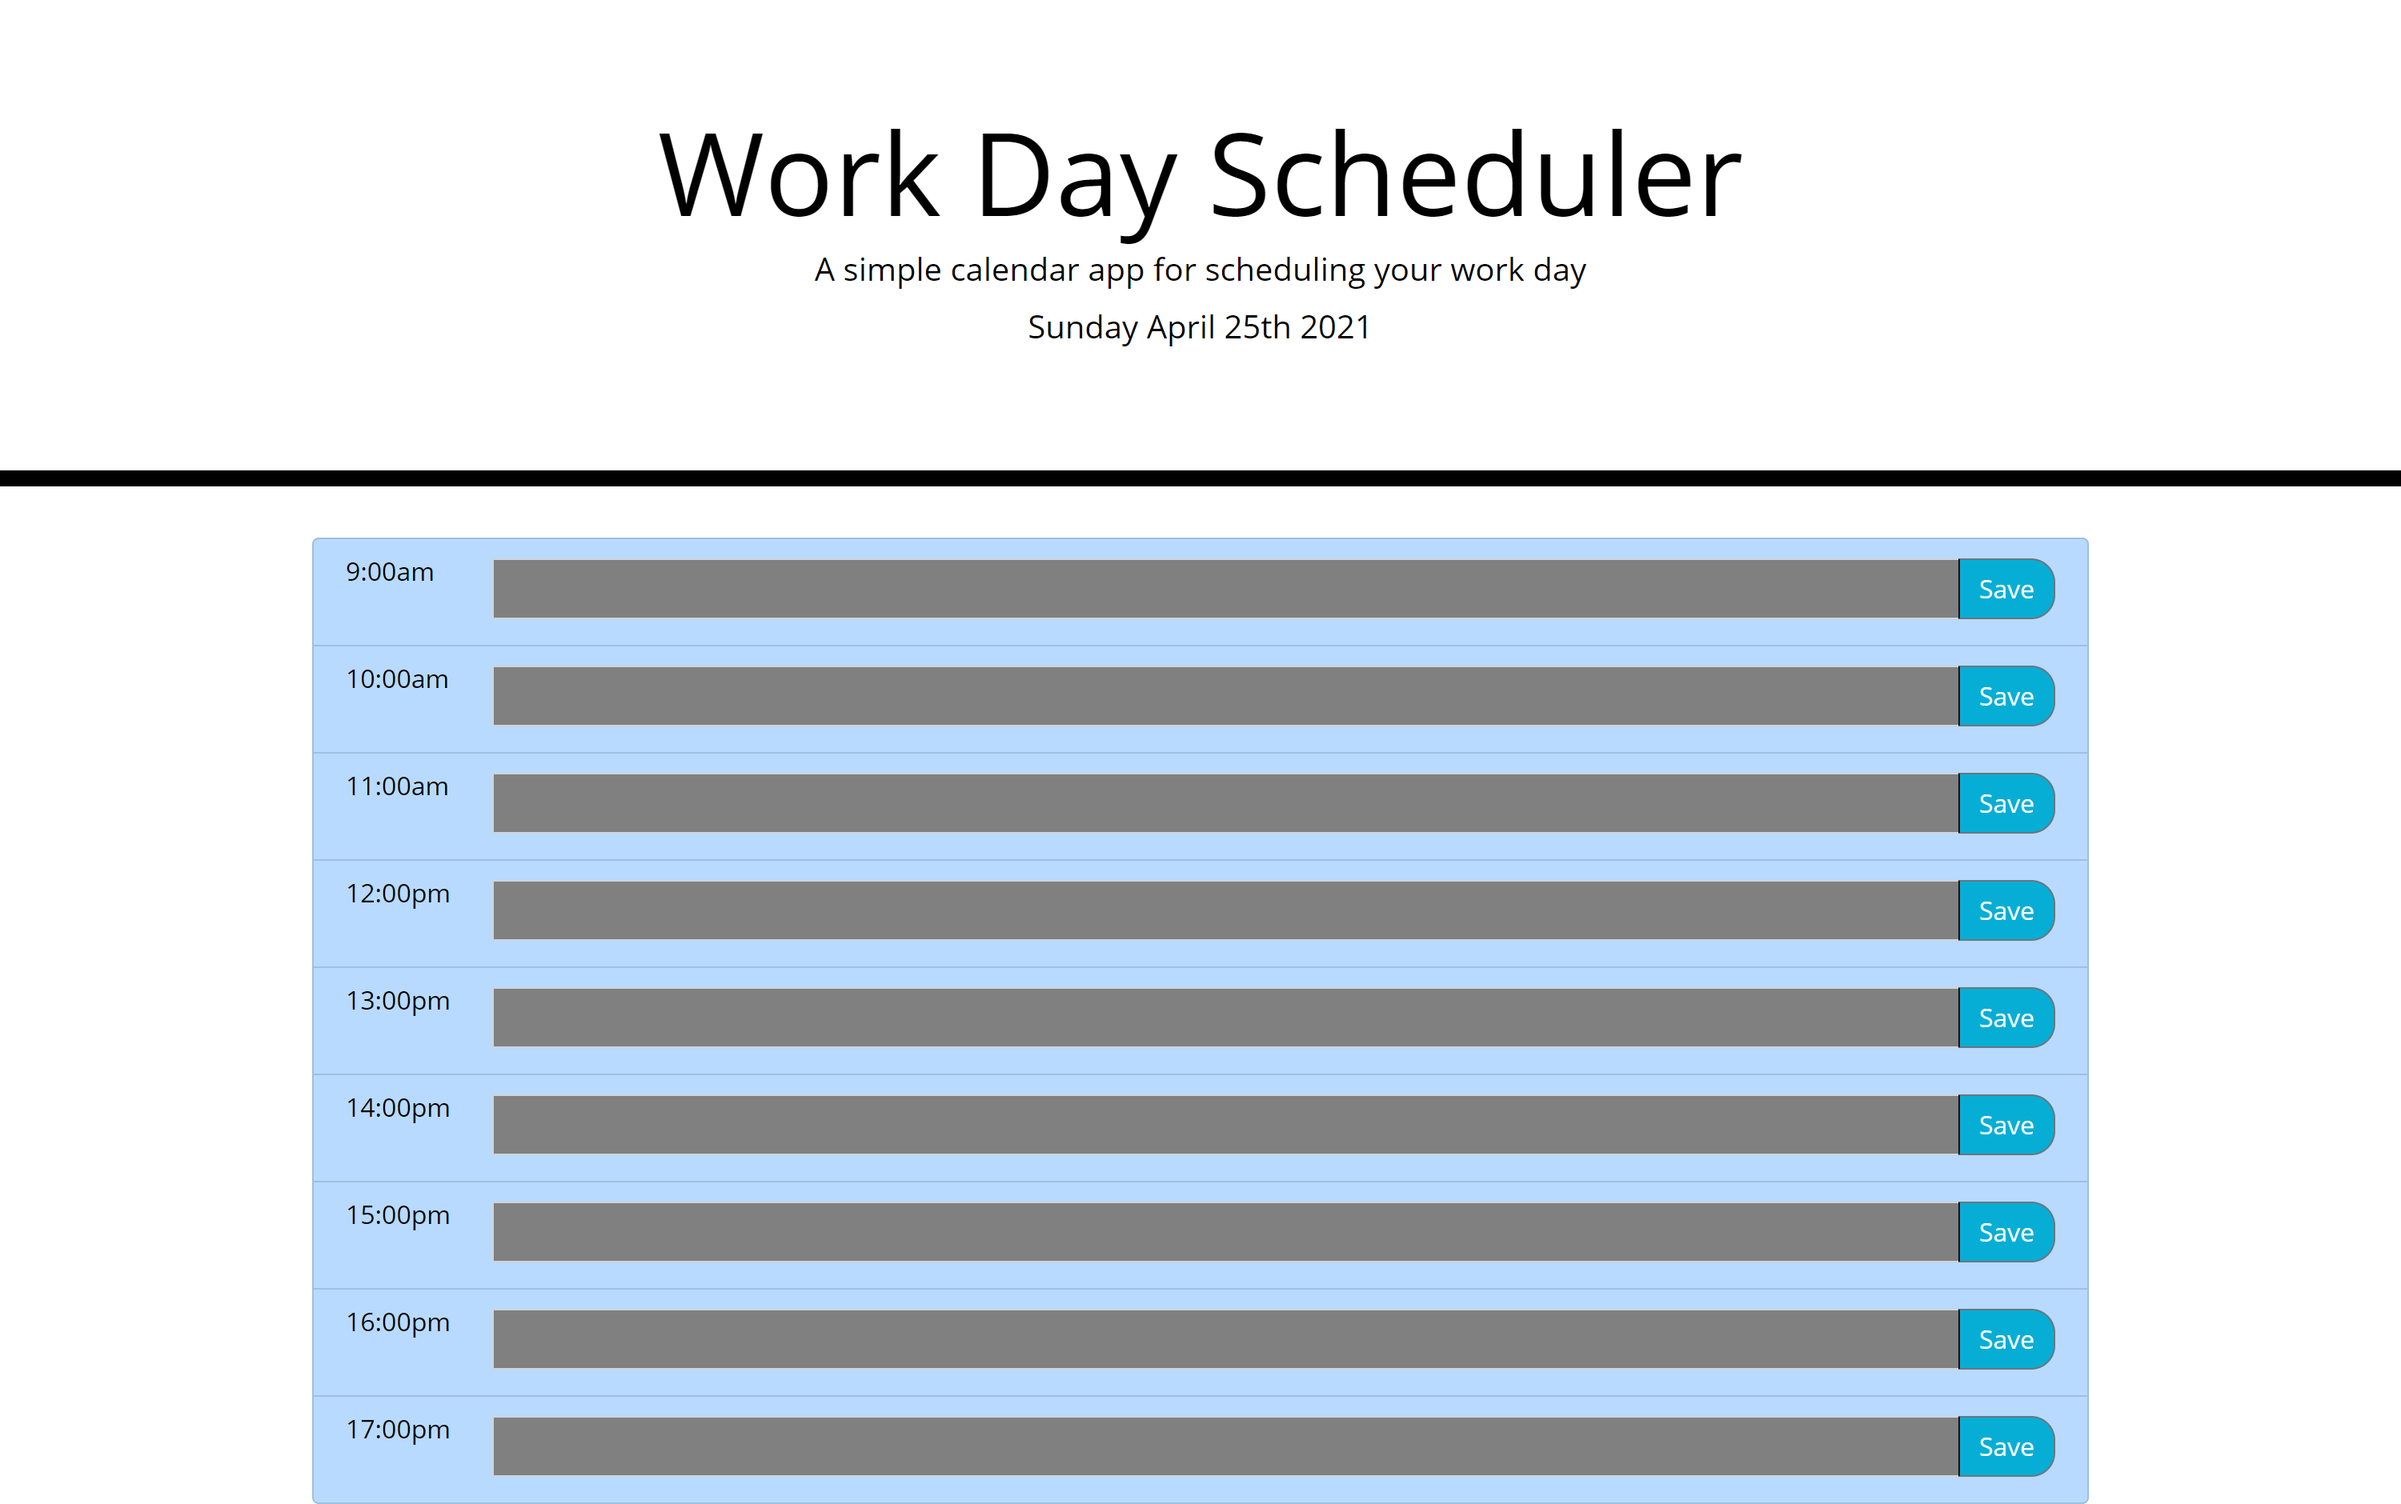
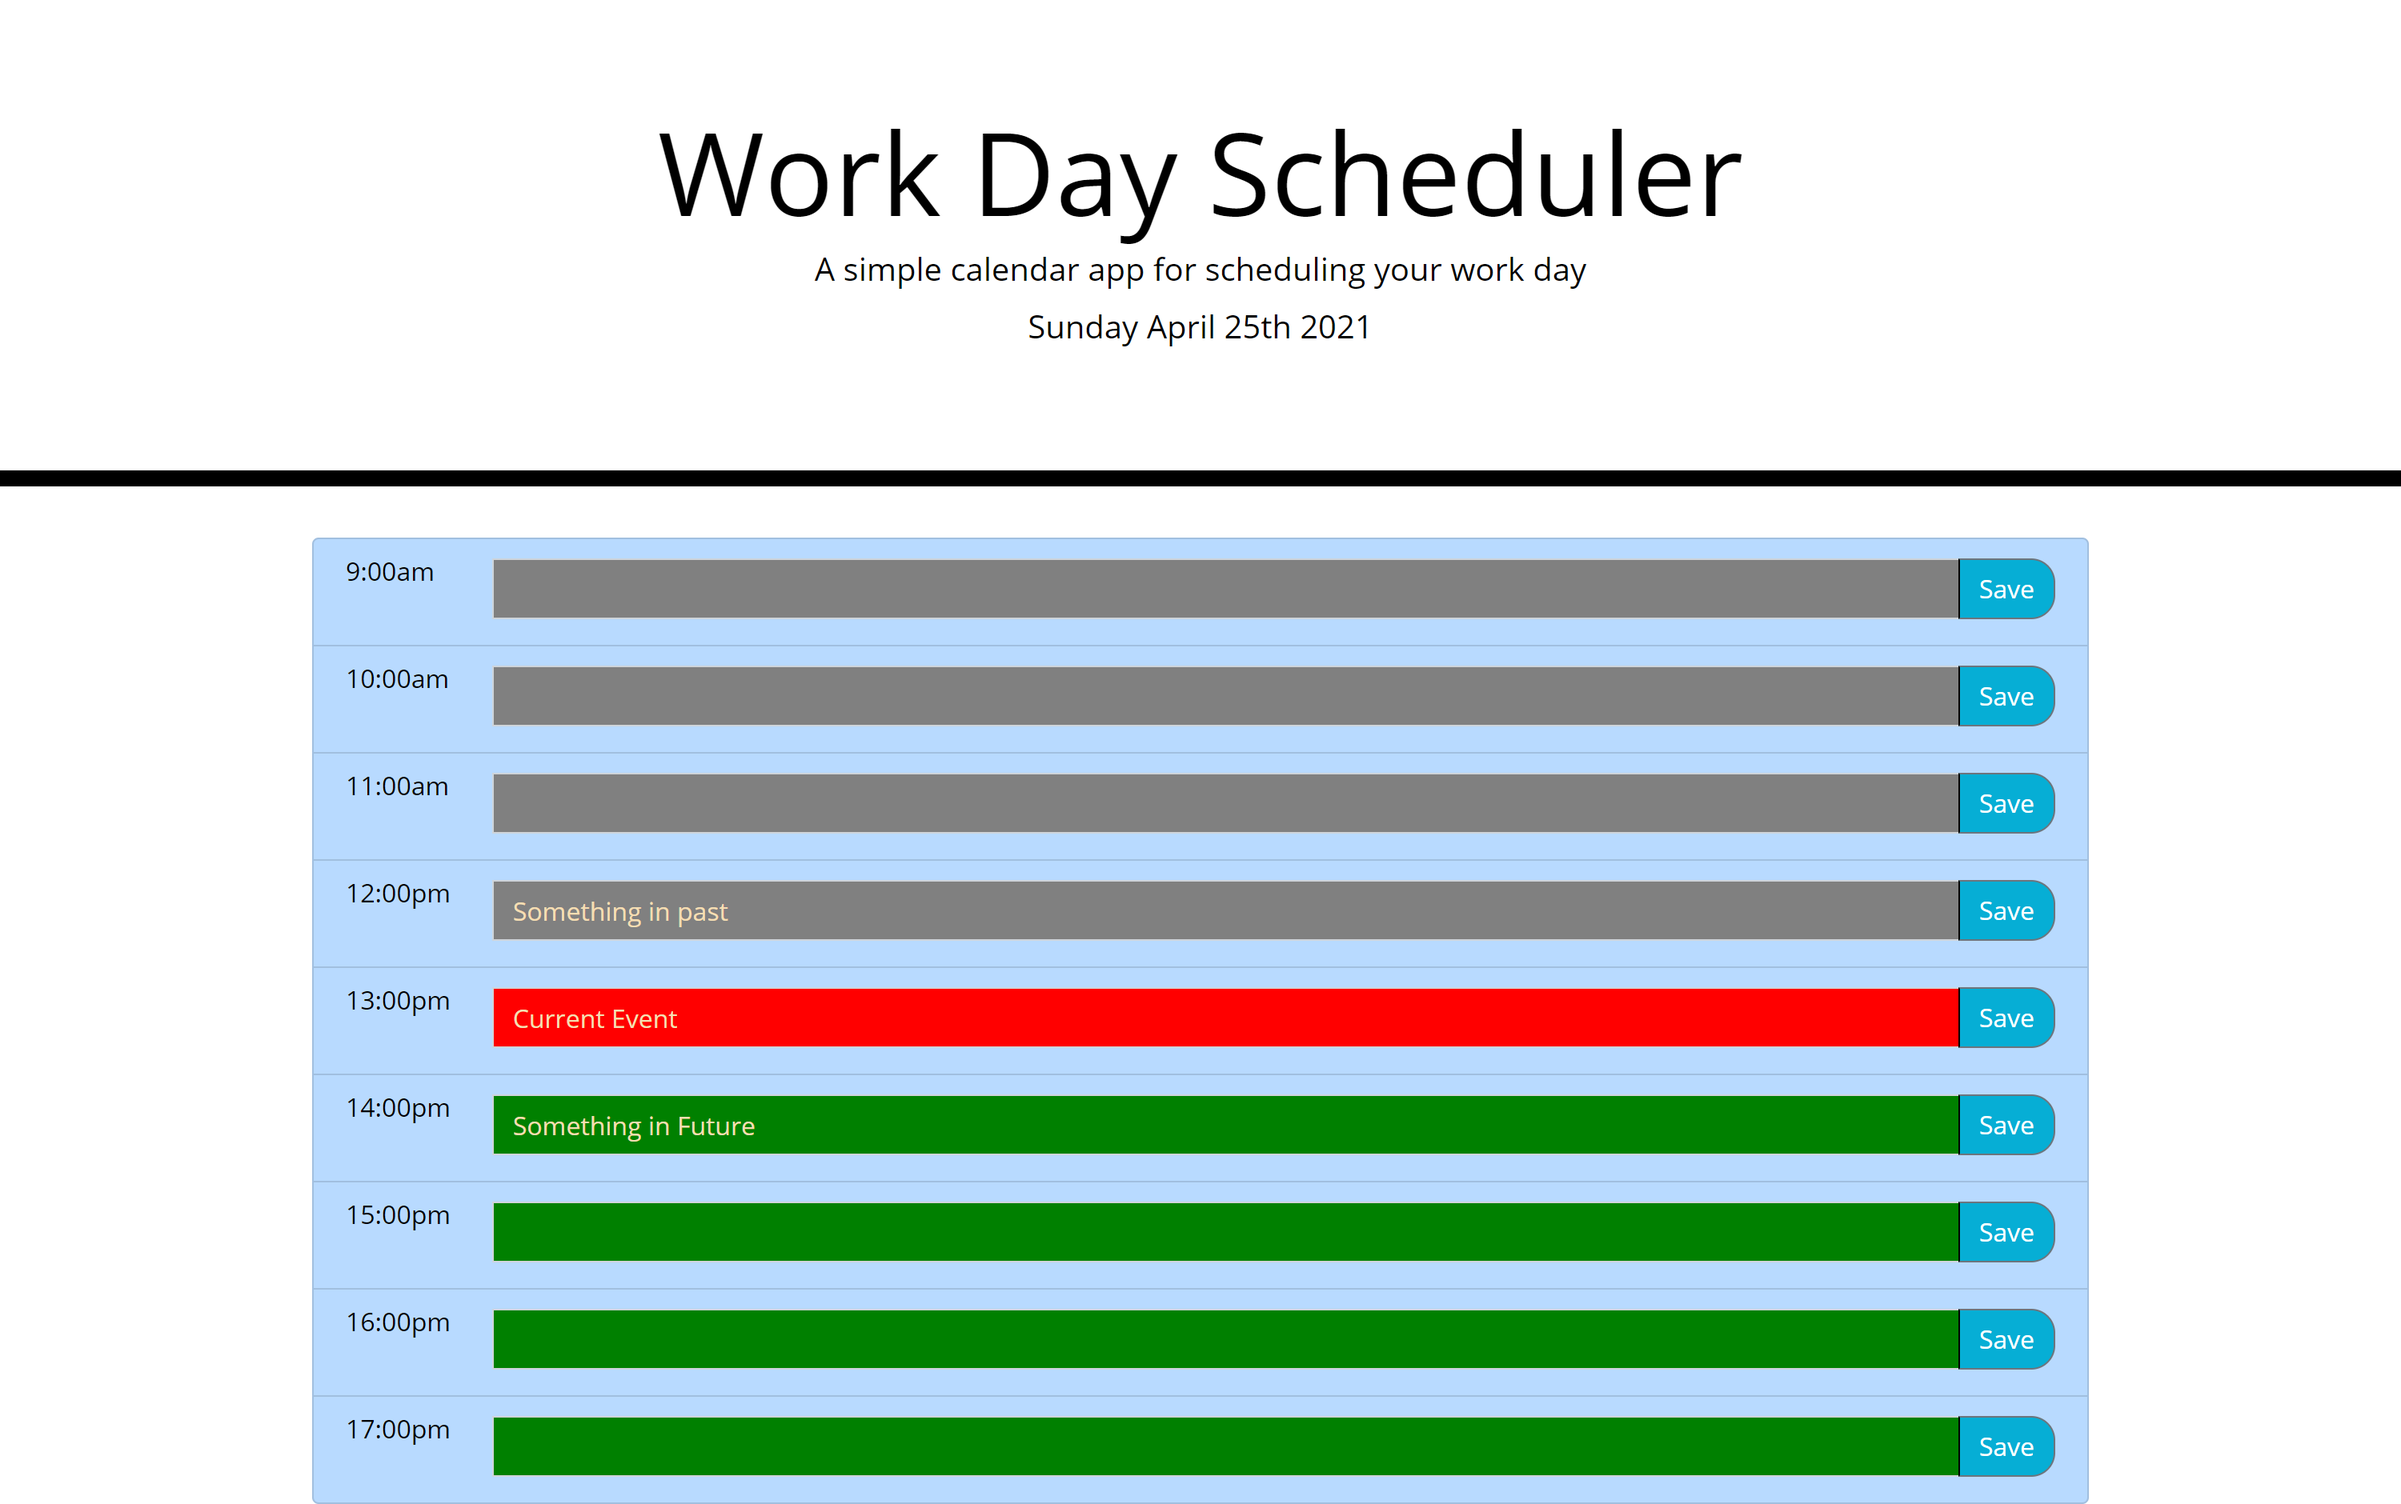
dynamically creating elements

Changed region(s): [[0.186, 0.8021, 0.837, 0.9872], [0.186, 0.6479, 0.837, 0.7713], [0.217, 0.5862, 0.31, 0.617]]

diff --git a/index.html b/index.html
@@ -23,95 +23,6 @@
   </header>
   <div class="container">
     <!-- Timeblocks go here -->
-    <li class="list-group-item list-group-item-primary">
-      <div class="input-group mb-3">
-        <span class="time-span">9:00am</span>
-        <input type="text" class="form-control">
-        <div class="input-group-append">
-          <button class="btn btn-outline-secondary saveBtn" type="button">Save</button>
-        </div>
-      </div>
-    </li>
-
-    <li class="list-group-item list-group-item-primary">
-      <div class="input-group mb-3">
-        <span class="time-span">10:00am</span>
-        <input type="text" class="form-control">
-        <div class="input-group-append">
-          <button class="btn btn-outline-secondary saveBtn" type="button">Save</button>
-        </div>
-      </div>
-    </li>
-
-    <li class="list-group-item list-group-item-primary">
-      <div class="input-group mb-3">
-        <span class="time-span">11:00am</span>
-        <input type="text" class="form-control">
-        <div class="input-group-append">
-          <button class="btn btn-outline-secondary saveBtn" type="button">Save</button>
-        </div>
-      </div>
-    </li>
-
-    <li class="list-group-item list-group-item-primary">
-      <div class="input-group mb-3">
-        <span class="time-span">12:00pm</span>
-        <input type="text" class="form-control">
-        <div class="input-group-append">
-          <button class="btn btn-outline-secondary saveBtn" type="button">Save</button>
-        </div>
-      </div>
-    </li>
-
-    <li class="list-group-item list-group-item-primary">
-      <div class="input-group mb-3">
-        <span class="time-span">13:00pm</span>
-        <input type="text" class="form-control">
-        <div class="input-group-append">
-          <button class="btn btn-outline-secondary saveBtn" type="button">Save</button>
-        </div>
-      </div>
-    </li>
-
-    <li class="list-group-item list-group-item-primary">
-      <div class="input-group mb-3">
-        <span class="time-span">14:00pm</span>
-        <input type="text" class="form-control">
-        <div class="input-group-append">
-          <button class="btn btn-outline-secondary saveBtn" type="button">Save</button>
-        </div>
-      </div>
-    </li>
-
-    <li class="list-group-item list-group-item-primary">
-      <div class="input-group mb-3">
-        <span class="time-span">15:00pm</span>
-        <input type="text" class="form-control">
-        <div class="input-group-append">
-          <button class="btn btn-outline-secondary saveBtn" type="button">Save</button>
-        </div>
-      </div>
-    </li>
-
-    <li class="list-group-item list-group-item-primary">
-      <div class="input-group mb-3">
-        <span class="time-span">16:00pm</span>
-        <input type="text" class="form-control">
-        <div class="input-group-append">
-          <button class="btn btn-outline-secondary saveBtn" type="button">Save</button>
-        </div>
-      </div>
-    </li>
-
-    <li class="list-group-item list-group-item-primary">
-      <div class="input-group mb-3">
-        <span class="time-span">17:00pm</span>
-        <input type="text" class="form-control">
-        <div class="input-group-append">
-          <button class="btn btn-outline-secondary saveBtn" type="button">Save</button>
-        </div>
-      </div>
-    </li>
 
     </ul>
   </div>

diff --git a/Assets/script.js b/Assets/script.js
@@ -32,9 +32,43 @@ let scheduler = [
 let myTasks;
 let storageArray=[];
 
+function createBlocks() {
+    let container = $(".container")
+    let amPm
+    $.each(scheduler, function(i)
+    {
+         if (scheduler[i].time >= 12){
+            amPm = ":00pm"
+             } else {
+                amPm = ":00am"
+             }
+        let li = $('<li/>')
+            .addClass('list-group-item list-group-item-primary')
+            .appendTo(container);
+        let div1 = $('<div>')
+            .addClass('input-group mb-3')
+            .appendTo(li);
+            $("<span>")
+            .addClass("time-span")
+            .text(scheduler[i].time + amPm)
+            .appendTo(div1);
+            $("<input>")
+            .addClass("form-control")
+            .attr("type", "text")
+            .appendTo(div1)
+        let  div2 = $("<div>")
+            .addClass('input-group-append').appendTo(div1)
+            $("<button>")
+            .addClass("btn btn-outline-secondary saveBtn")
+            .text("Save")
+            .appendTo(div2)
+    });
+
+}
+
 // -------------- Getting Todays Date --------------
 function getToday() {
-    var currentDate = moment().format('dddd MMMM Do YYYY');
+    let currentDate = moment().format('dddd MMMM Do YYYY');
     $("#currentDay").text(currentDate);
 }
 
@@ -61,7 +95,8 @@ function setTasks(){
 }
 
 // -------------- Button click event --------------
-$(".btn").on("click", function(event){
+$(document).ready(function() {
+    $(".btn").on("click", function(event){
     event.preventDefault();
     $("li").each(function(index) {
         storageArray[index] = $(this).find("input").val();
@@ -72,10 +107,11 @@ $(".btn").on("click", function(event){
     }
     setTasks();
 })
+})
 
 // -------------- Check the time and color scheduler  --------------
 function checkIfPassed() {
-  var currentTime = moment().format('HH') ;
+  let currentTime = moment().format('HH') ;
   $("li").each(function(index) {
     if (scheduler[index].time > currentTime) {
         $(this).find("input").css("background-color", "green");
@@ -89,6 +125,9 @@ function checkIfPassed() {
 });
 }
 
+
+
+createBlocks();
 getToday();
 getTasks();
 checkIfPassed();

diff --git a/README.md b/README.md
@@ -34,6 +34,7 @@ THEN the saved events persist
      [x] If time is passed it colors inputs gray
      [x] If time is Current it colors input red
      [x] If time is in future it colors inputs green
+     [x] Dynamicli creating Bootstrap elements
 
 ---
 
